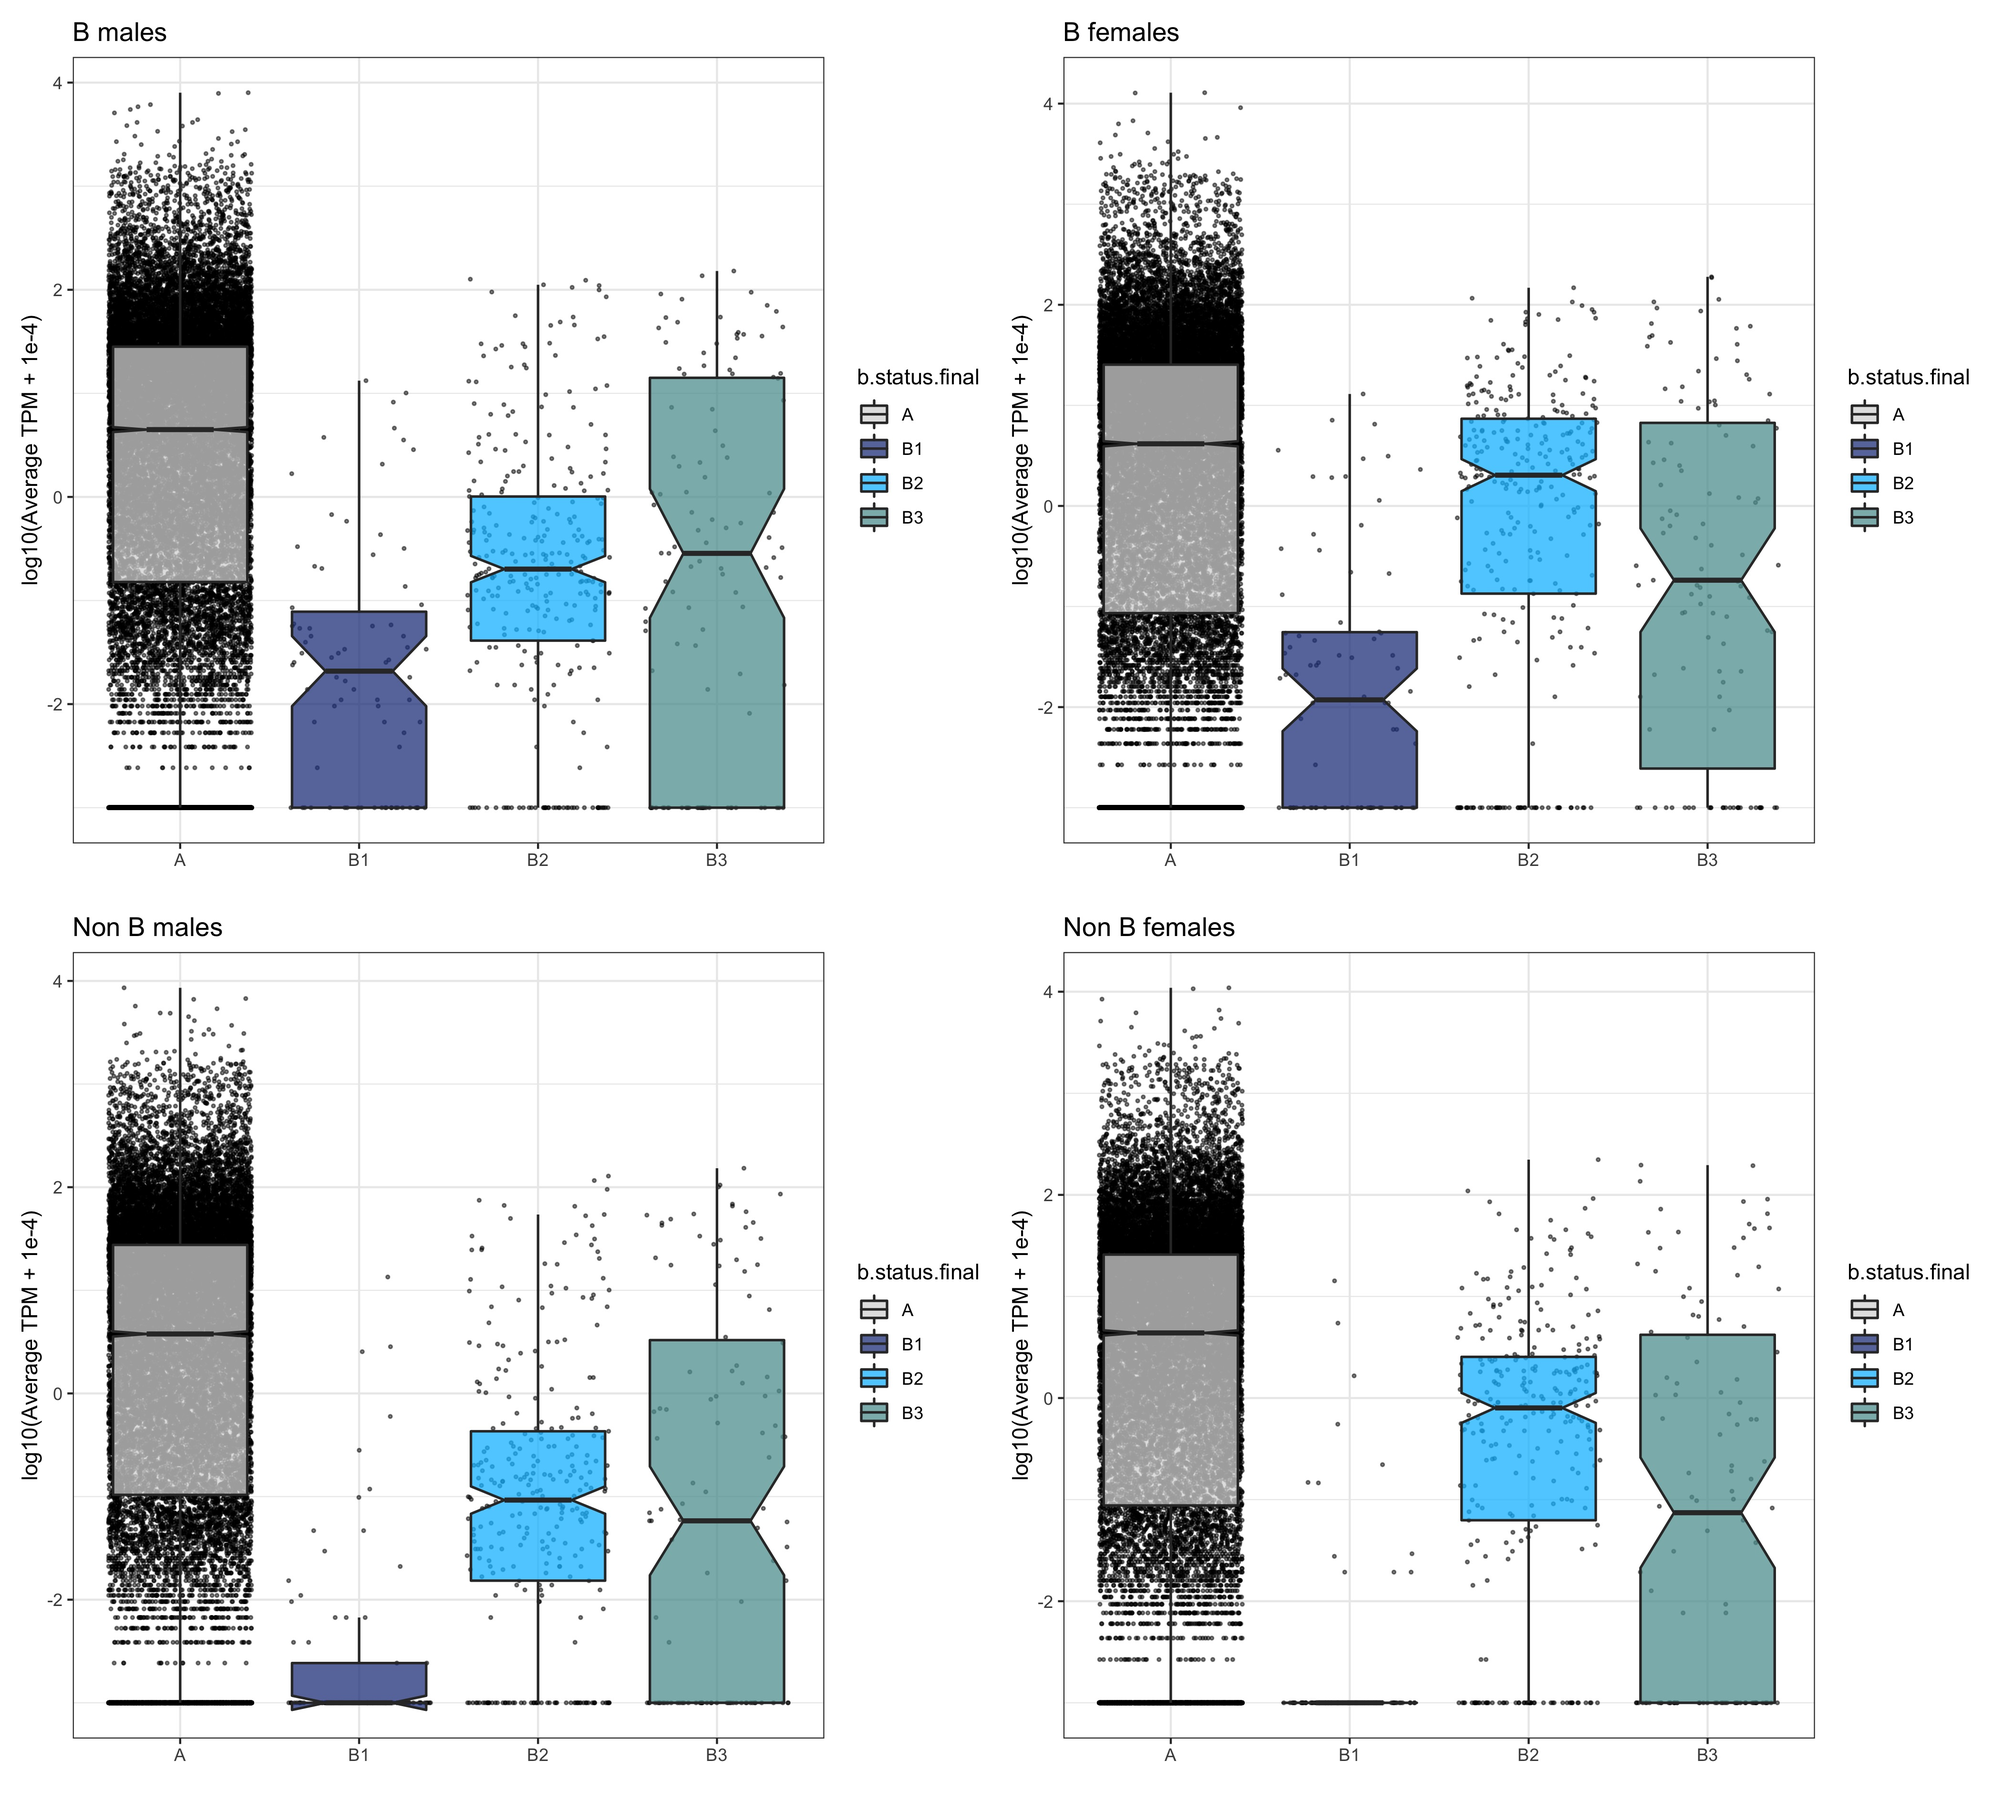
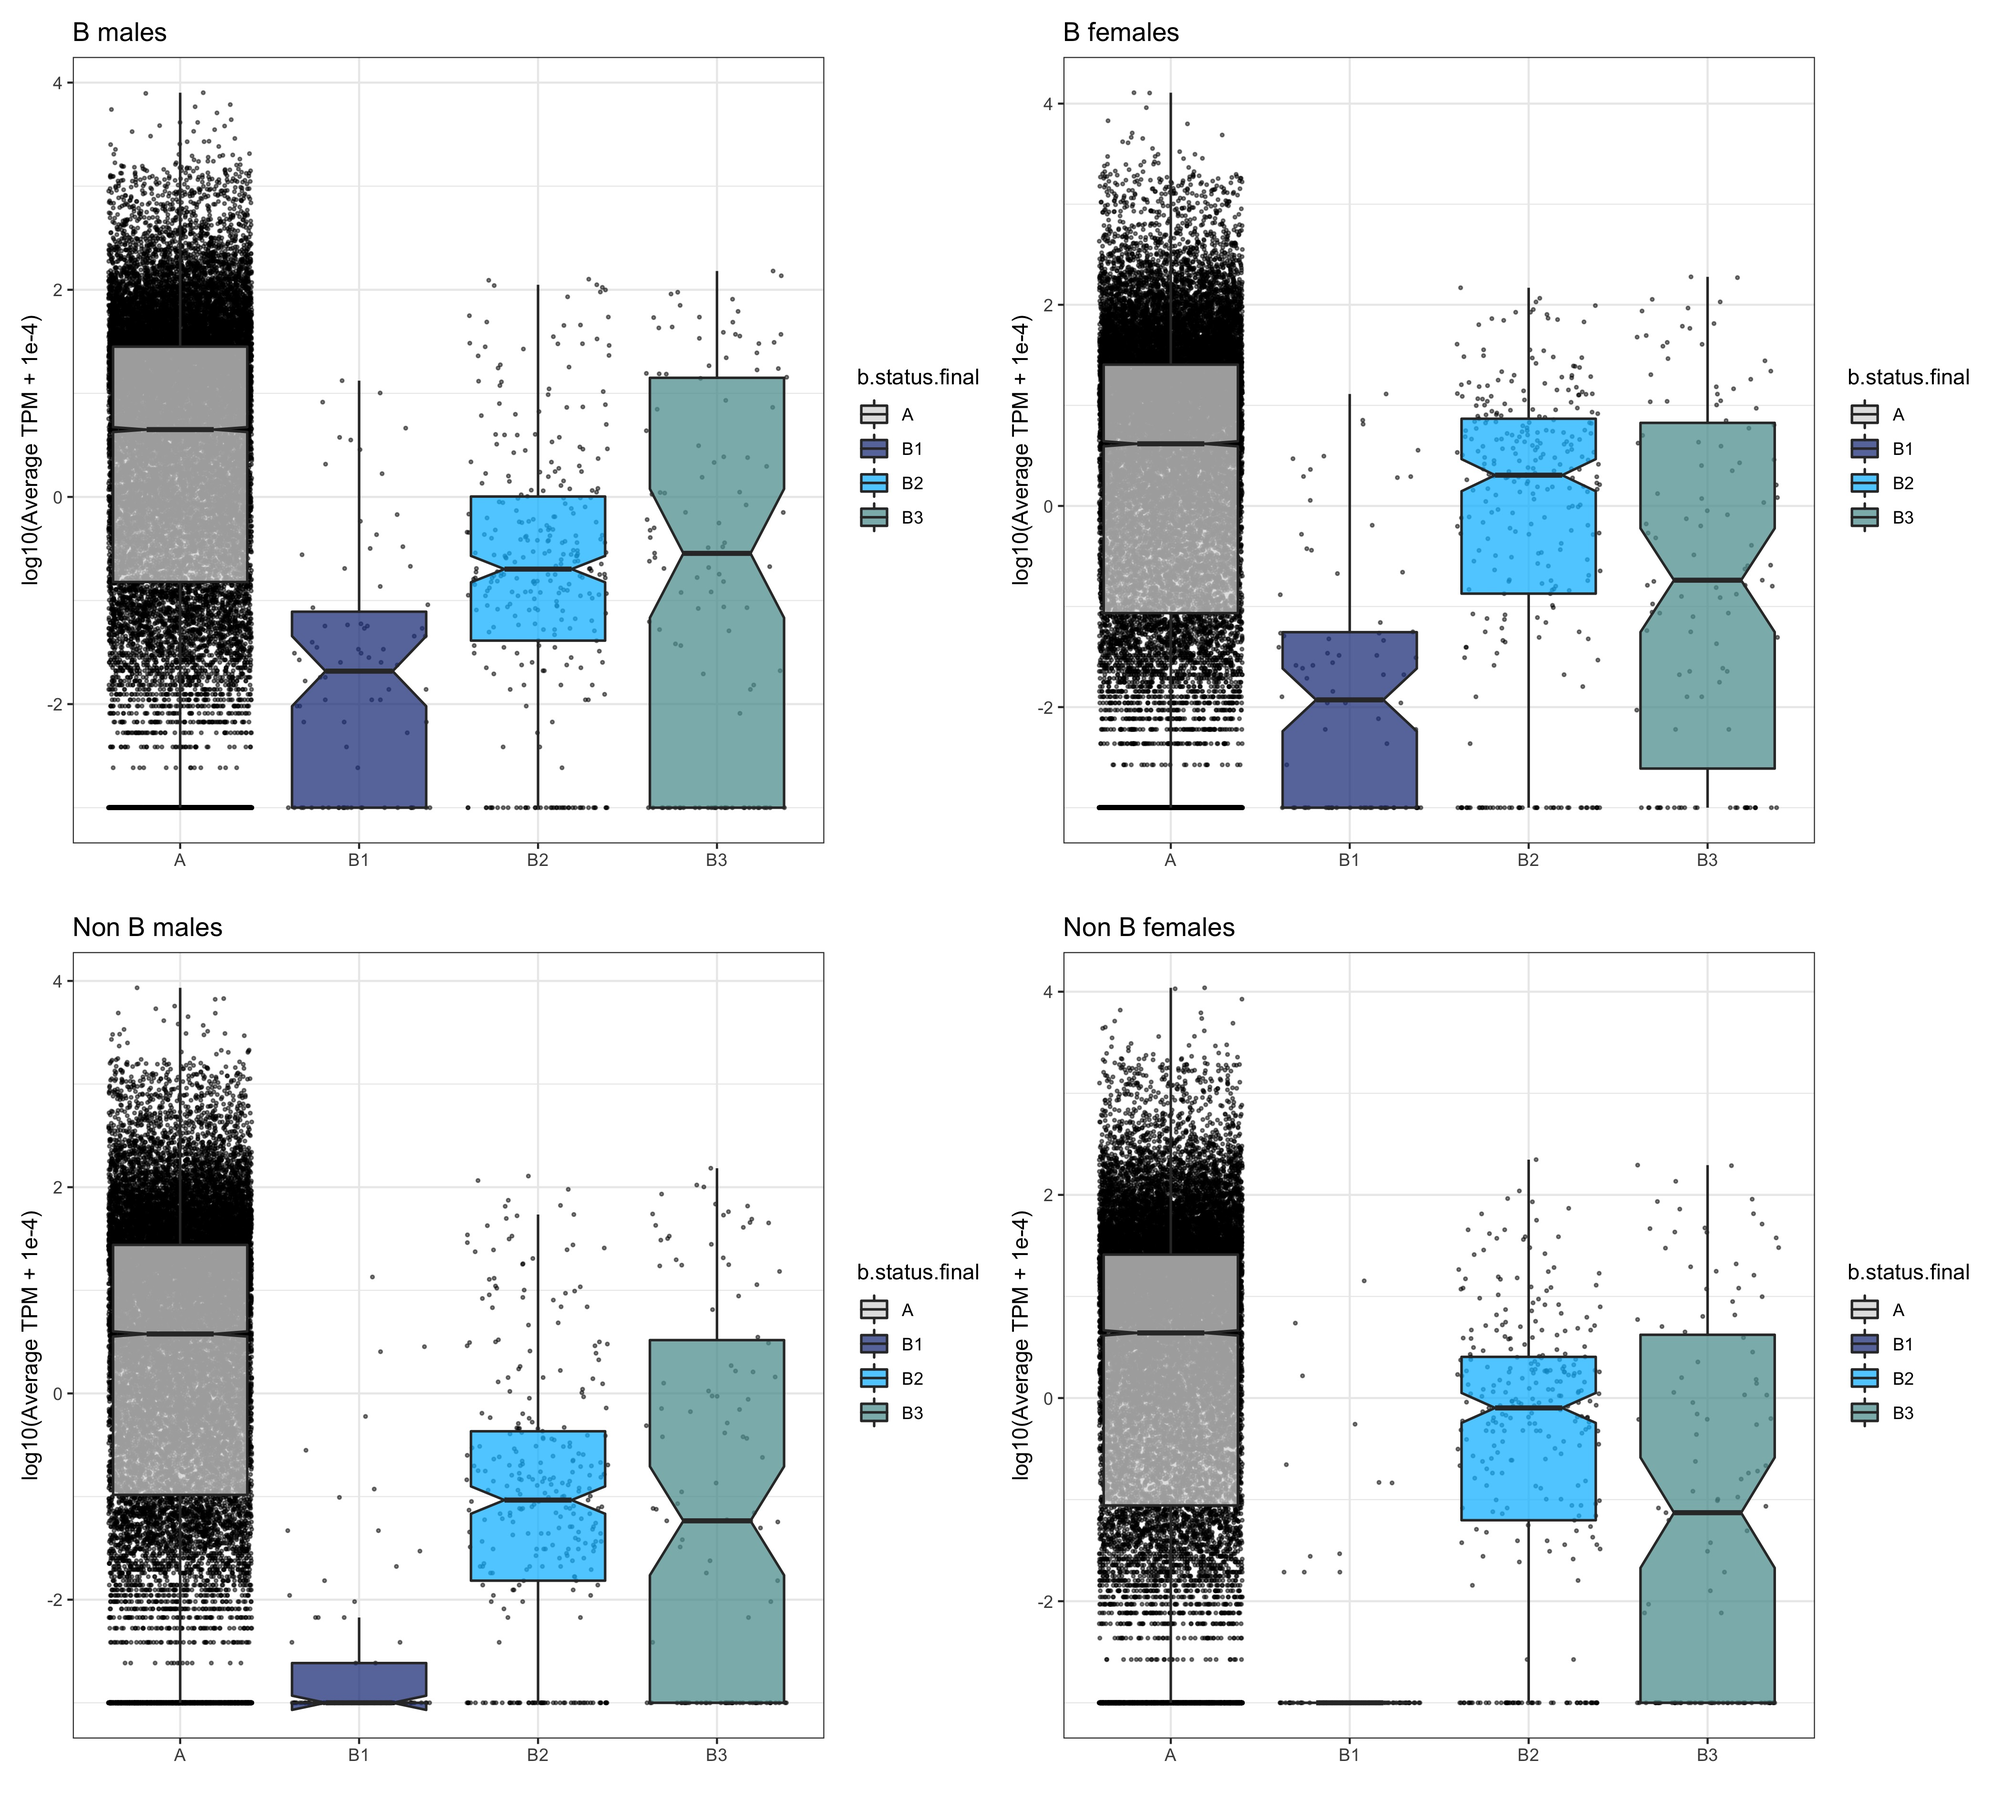
edited 2_Transcriptome.md and Exploring_AB_genes.R

diff --git a/2_Transcriptome.md b/2_Transcriptome.md
@@ -781,5 +781,65 @@ List of annotated Bmale only transcripts are in misc/rsem_isoform_Bmale_annot2.c
 | g864.t1    | Pfam        | PF15868      | Transcription activator MBF2                         | Transcription activator MBF2                        |                                                |
 | g9431.t1   | SignalP_EUK | SignalP-noTM |                                                      |                                                     |                                                |
 
+# DEGs B vs non B lines regardless of sex
+
+## Using edgeR script
+
+To obtain the DEGs in B compared to non B lines, the same data prep was made and a new Design was created (design2 in R script)
+```
+group2=c("B","B","B","B","B","B","B","B","B","B","B","B","B","noB","noB","noB","noB","noB","noB","noB","noB","noB","noB","noB","noB","noB")
+design2 <- model.matrix(~0 + group2)
+```
+
+*Voom plot before contrast matrix*
+
+![](misc/v2_design2_voomplot.png)
+
+
+*Contrast matrix*
+```
+cont.matrix2 <- makeContrasts(BnoB = group2B - group2noB, levels= design2)
+```
+
+*Voom plot after model fit*
+
+![](misc/v2_design2_voomplot_finalmodel.png)
+
+* Venn Diagram *
+
+![](misc/venn_b_noB.png)
+
+There were 178 overexpressed and 70 underexpressed genes if we compared presence or absence of B, regardless of sex
+
+The list of overexpressed genes was exported to output/
+
+
+
+## Using exploring_AB_genes R script
+
+I edited the script by just adding the B vs non B list.
+
+There are 160 A genes overexpressed and 68 underexpressed genes between B and non B lines regarless of sex
+
+*Distribution to type of gene in the overexpressed genes*
+```
+ A  B1  B2  B3 
+160   8   6   4 
+
+```
+List: output/over.B.vs.noB.csv
+
+
+
+Distribution to type of gene in the underexpressed genes*
+```
+ A B2 B3 
+68  1  1
+```
+List: output/under.B.vs.noB.csv
+
+
+*Plot expression by type of gene*
+![](misc/gene.tpm.by.b.statusnew.jpeg)
 
 
